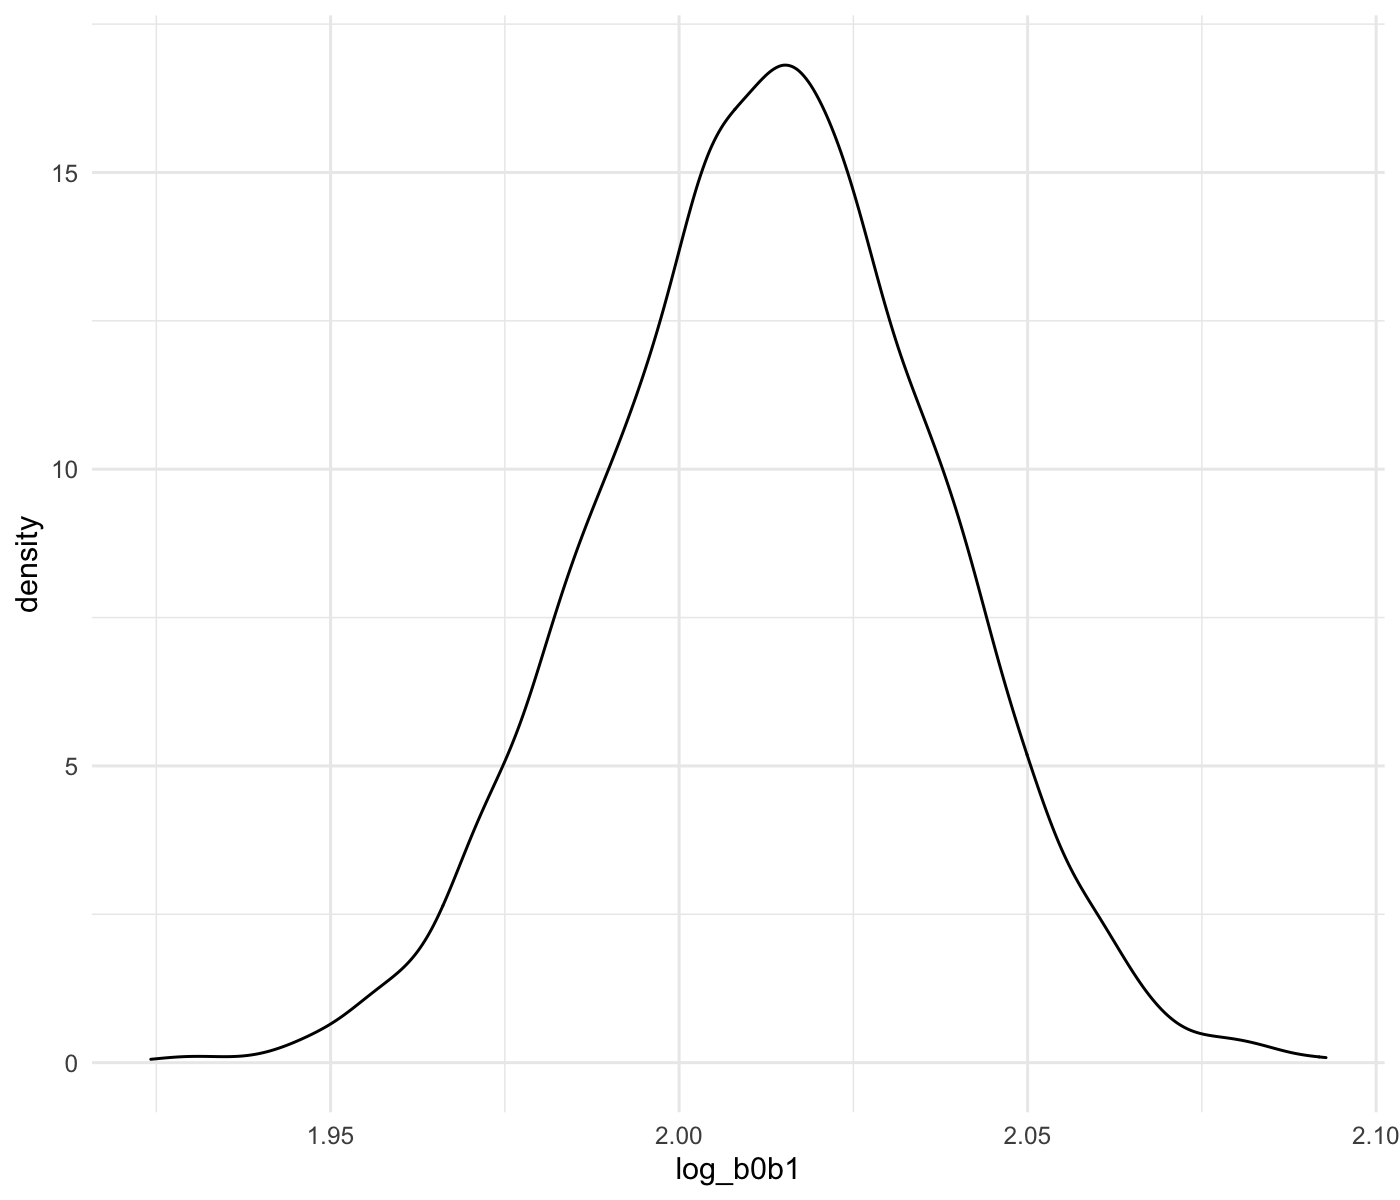
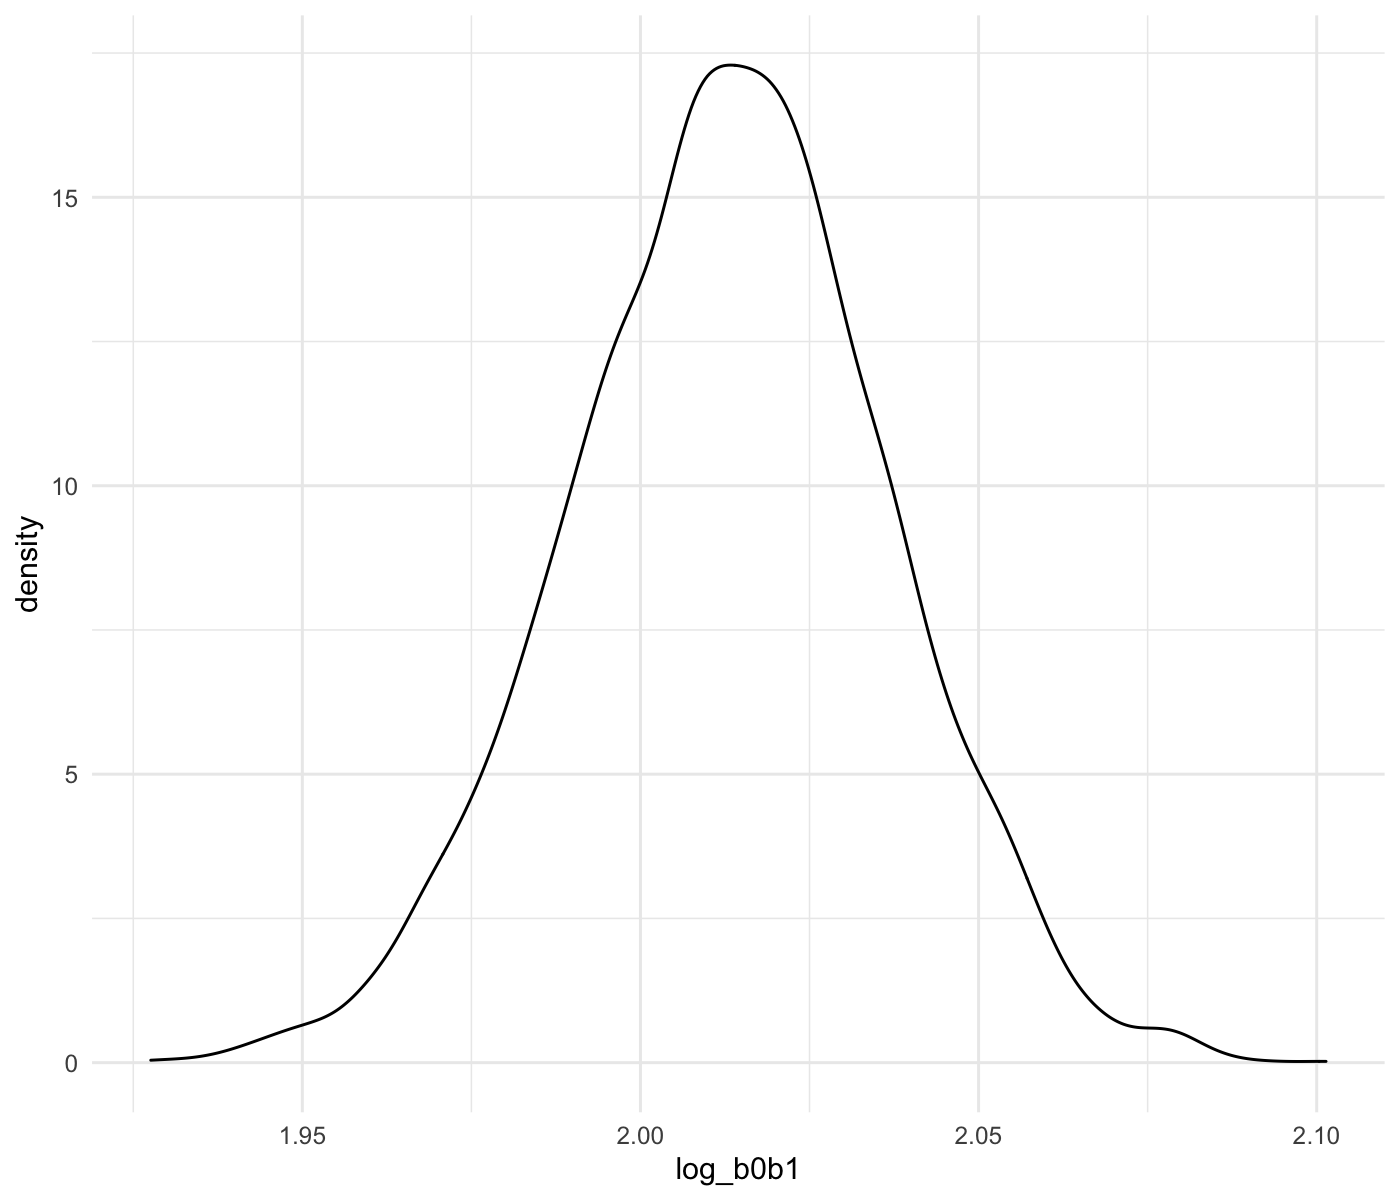
Problem 1 -- 95% CI added

diff --git a/p8105_hw6_sg3889.md b/p8105_hw6_sg3889.md
@@ -1,7 +1,7 @@
 P8105 Homework 6
 ================
 Siyue Gao
-2022-12-02
+2022-12-03
 
 ``` r
 library(tidyverse)
@@ -65,8 +65,8 @@ wanted to construct a confidence interval for $R^2$, we could take the
 However, because the shape isn’t symmetric, using the mean +/- 1.96
 times the standard error probably wouldn’t work well.
 
-We can produce a distribution for $\log(\beta_0 * \beta1)$ using a
-similar approach, with a bit more wrangling before we make our plot.
+We can produce a distribution for $\log(\hat\beta_0 * \hat\beta1)$ using
+a similar approach, with a bit more wrangling before we make our plot.
 
 ``` r
 weather_df %>% 
@@ -98,6 +98,63 @@ it’s possible to establish “large sample” distributions for strange
 parameters / values / summaries in a lot of cases, and those are great
 to have. But it is helpful to know that there’s a way to do inference
 even in tough cases.
+
+The 95% confidence interval for $\hat{r}^2$ is:
+
+``` r
+weather_df %>% 
+  bootstrap(n = 5000) %>% 
+  mutate(
+    models = map(strap, ~lm(tmax ~ tmin, data = .x) ),
+    results = map(models, broom::glance)
+  ) %>% 
+  select(-strap, -models) %>% 
+  unnest(results) %>% 
+  summarise(
+    lower_bound = quantile(r.squared, 0.025),
+    upper_bound = quantile(r.squared, 0.975)
+  ) %>% 
+  knitr::kable(
+    digits = 3,
+    col.names = c("95% CI Lower", "95% CI Upper")
+  )
+```
+
+| 95% CI Lower | 95% CI Upper |
+|-------------:|-------------:|
+|        0.894 |        0.927 |
+
+The 95% confidence interval for $\log(\hat\beta_0 * \hat\beta1)$ is:
+
+``` r
+weather_df %>% 
+  modelr::bootstrap(n = 5000) %>% 
+  mutate(
+    models = map(strap, ~lm(tmax ~ tmin, data = .x) ),
+    results = map(models, broom::tidy)
+  ) %>% 
+  select(-strap, -models) %>% 
+  unnest(results) %>% 
+  select(id = `.id`, term, estimate) %>% 
+  pivot_wider(
+    names_from = term, 
+    values_from = estimate
+  ) %>% 
+  rename(beta0 = `(Intercept)`, beta1 = tmin) %>% 
+  mutate(log_b0b1 = log(beta0 * beta1)) %>% 
+  summarise(
+    lower_bound = quantile(log_b0b1, 0.025),
+    upper_bound = quantile(log_b0b1, 0.975)
+  ) %>% 
+  knitr::kable(
+    digits = 3,
+    col.names = c("95% CI Lower", "95% CI Upper")
+  )
+```
+
+| 95% CI Lower | 95% CI Upper |
+|-------------:|-------------:|
+|        1.966 |        2.058 |
 
 ## Problem 2
 
@@ -397,7 +454,7 @@ birthweight %>%
   )
 ```
 
-<img src="p8105_hw6_sg3889_files/figure-gfm/unnamed-chunk-17-1.png" width="90%" />
+<img src="p8105_hw6_sg3889_files/figure-gfm/unnamed-chunk-19-1.png" width="90%" />
 
 ### Comparison across Models by Cross Validation
 
@@ -455,7 +512,7 @@ cv_df %>%
   )
 ```
 
-<img src="p8105_hw6_sg3889_files/figure-gfm/unnamed-chunk-19-1.png" width="90%" />
+<img src="p8105_hw6_sg3889_files/figure-gfm/unnamed-chunk-21-1.png" width="90%" />
 
 Since lower values of RMSE indicate better fit, by checking the boxplot,
 we can tell that the model using head circumference (`bhead`), length
